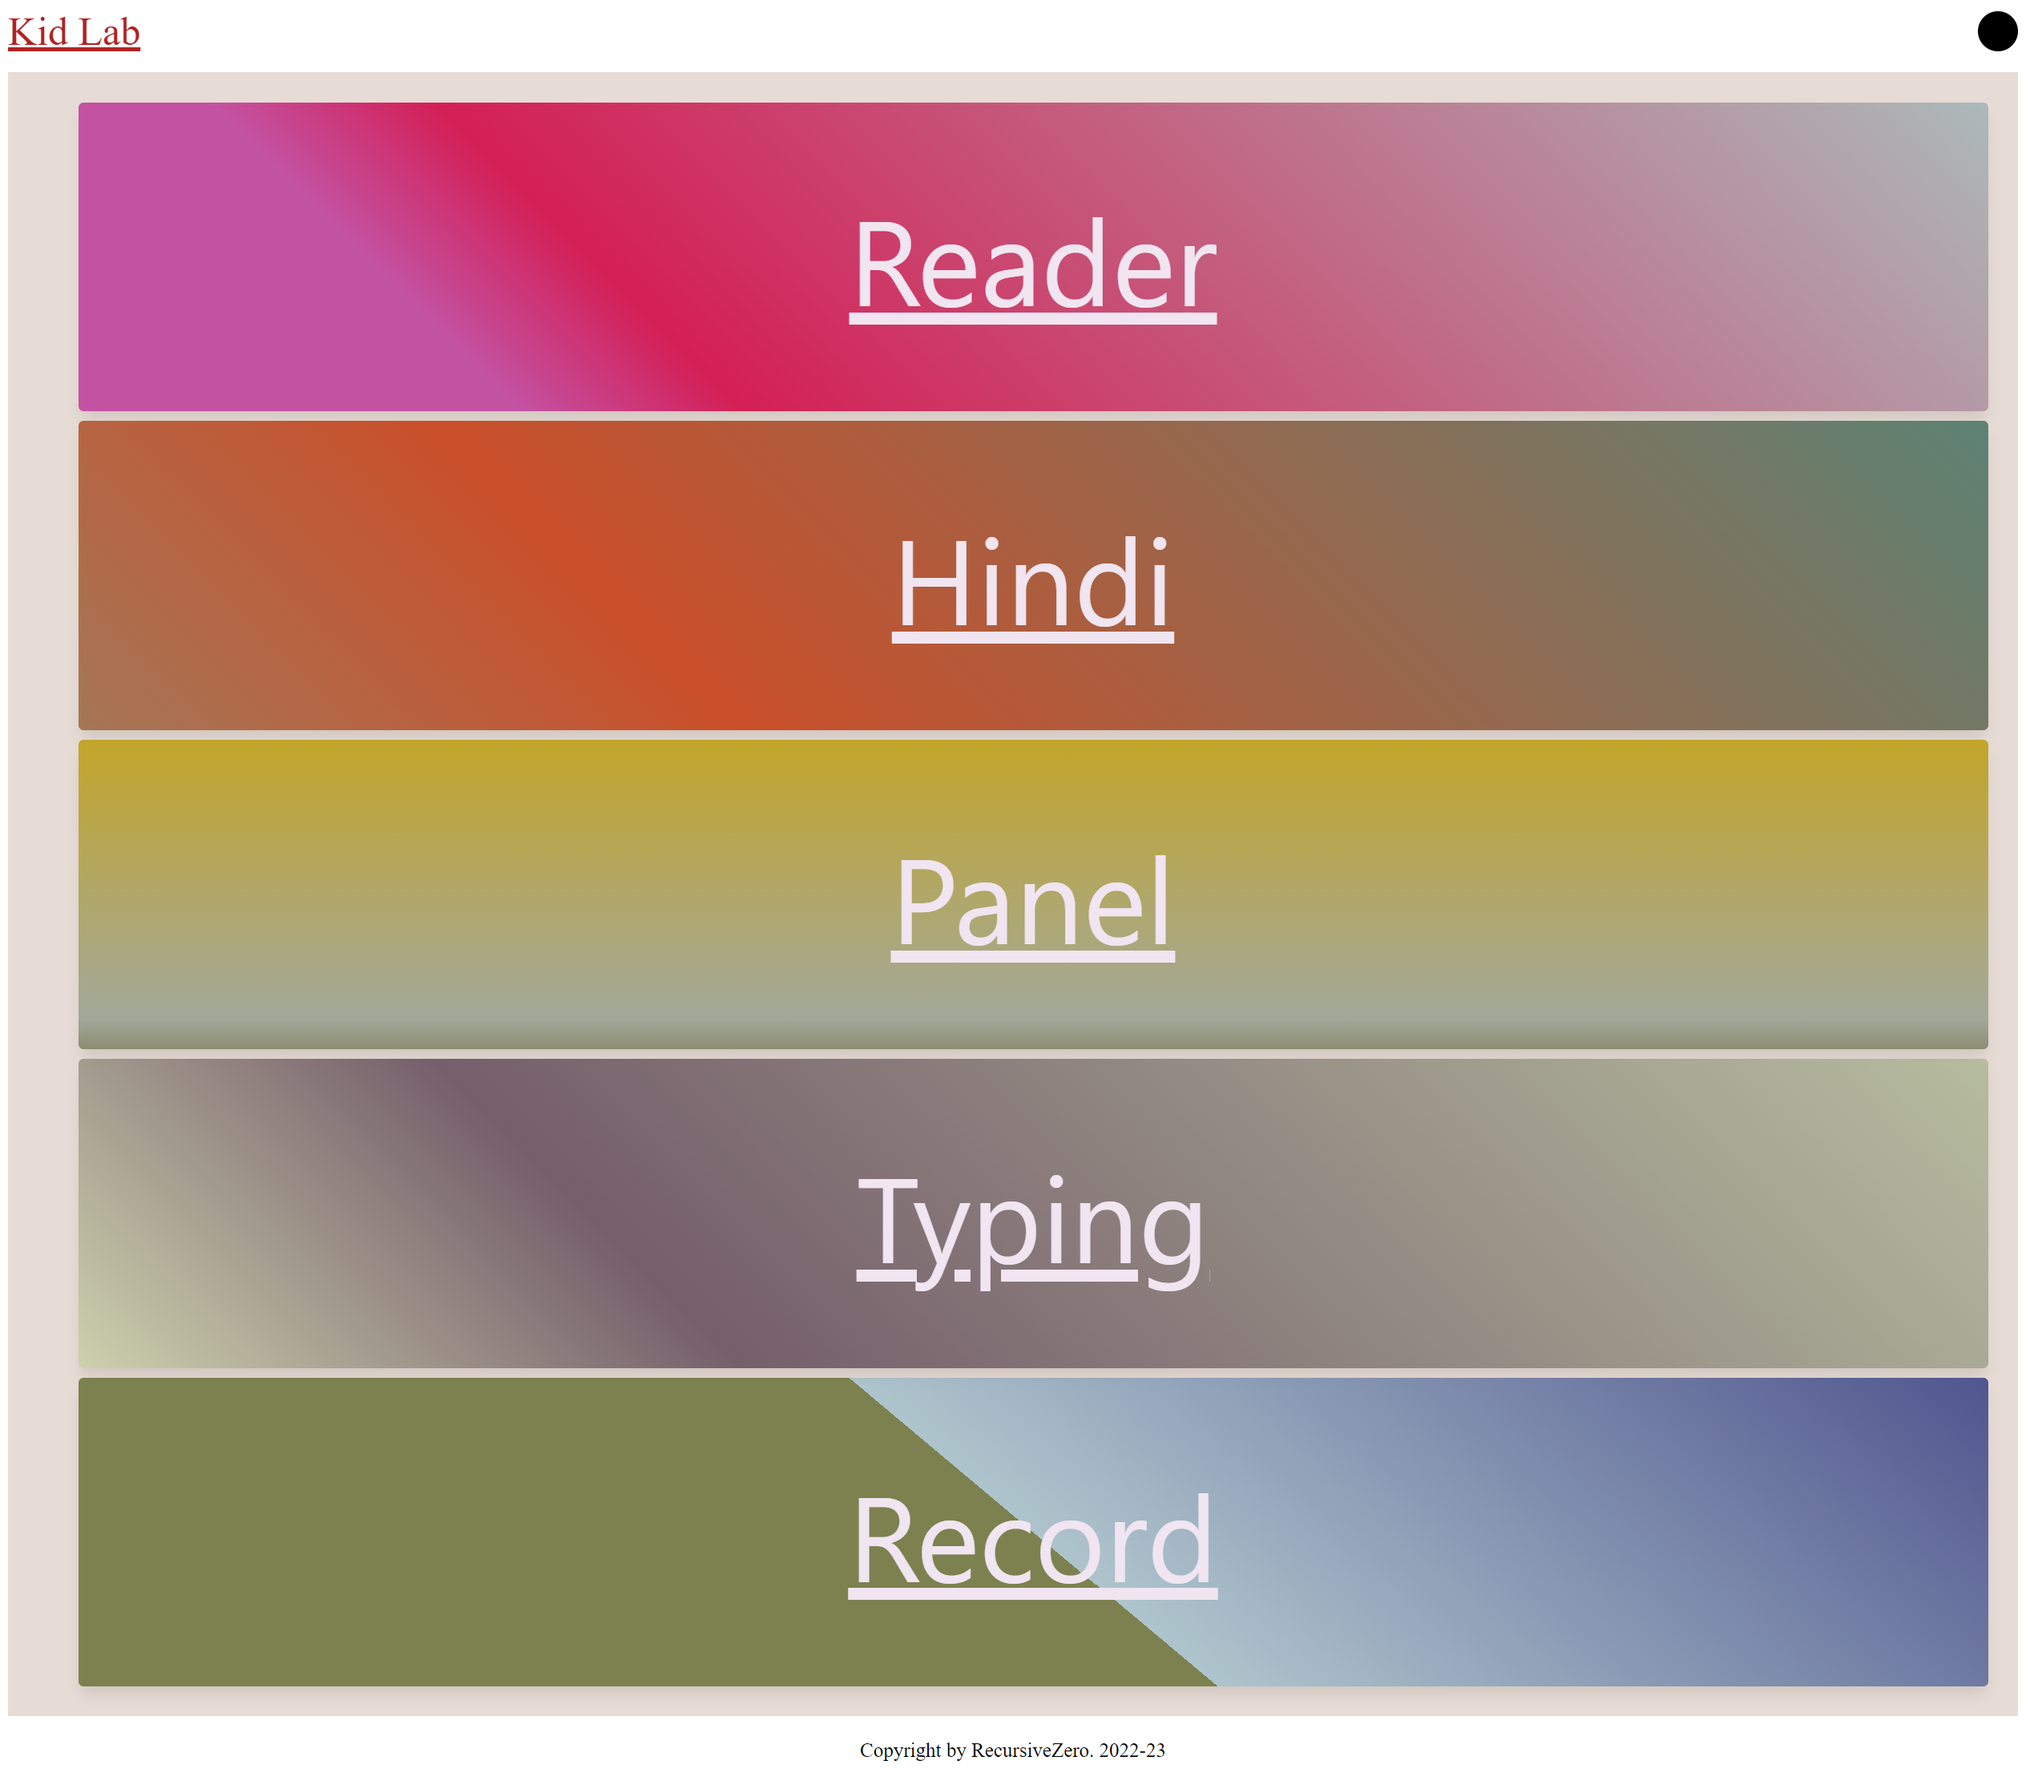
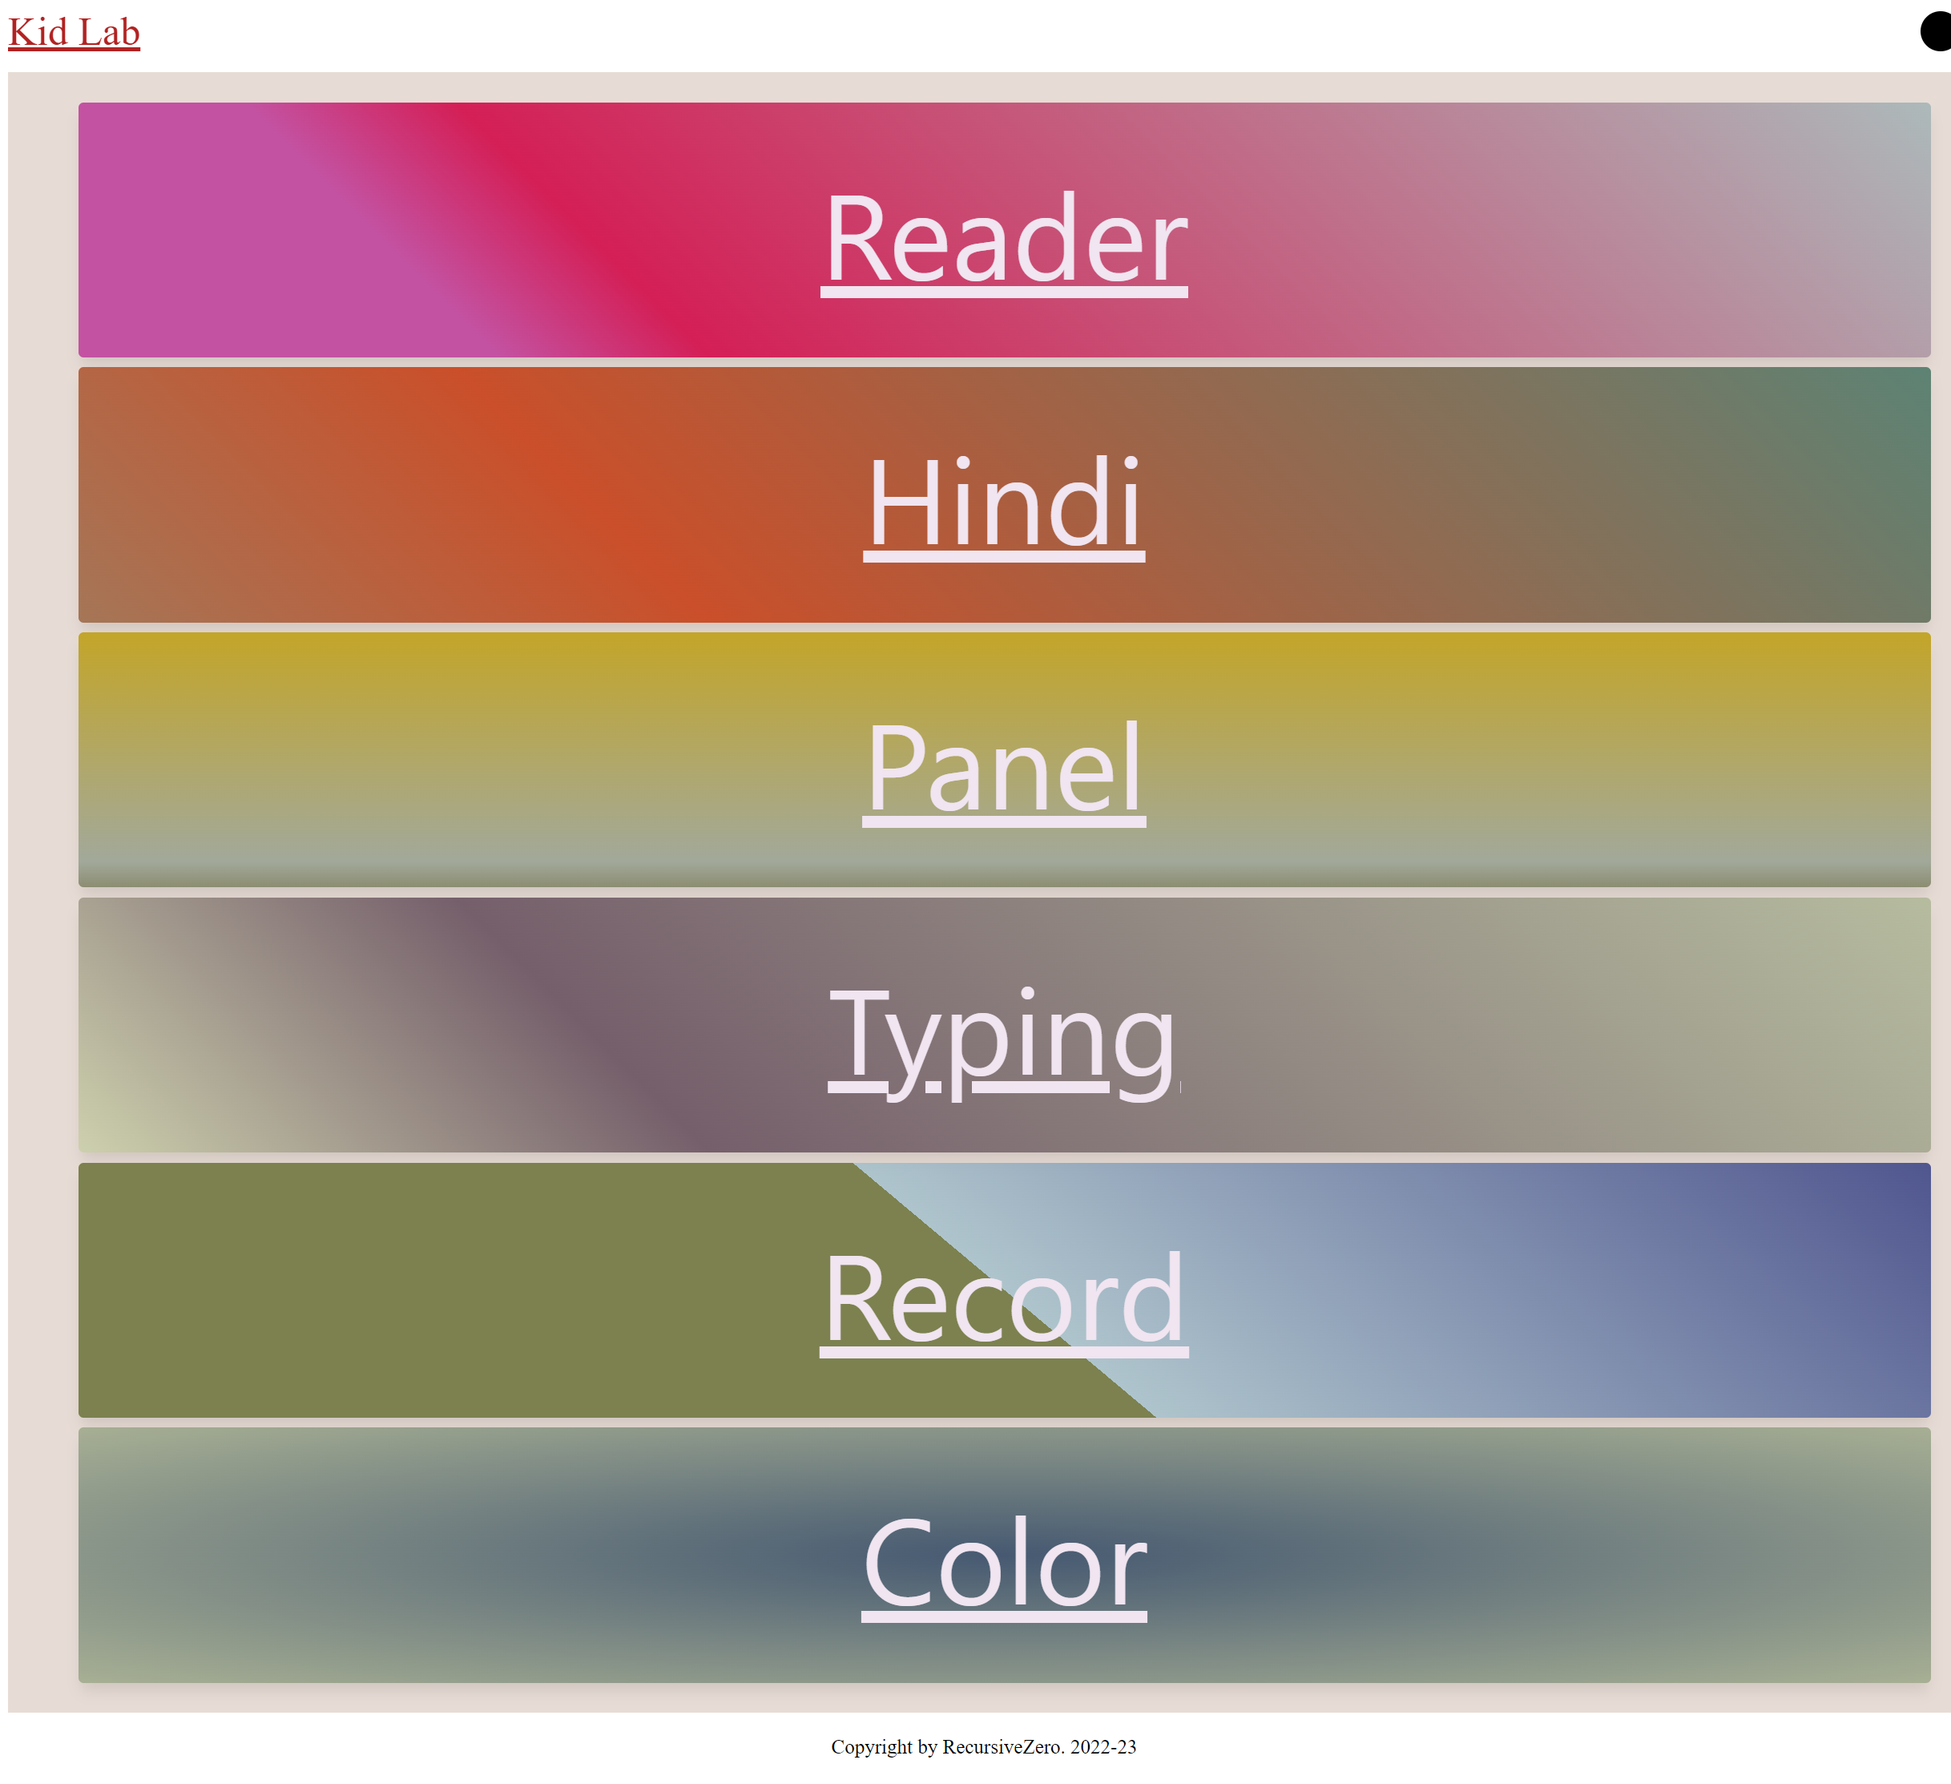
added color the background game

diff --git a/src/styles/color.css b/src/styles/color.css
@@ -1,0 +1,79 @@
+body {
+  margin: 0;
+  padding: 0;
+  box-sizing: content-box;
+}
+
+.container {
+  display: grid;
+  justify-content: center;
+  align-items: start;
+  height: 100vh;
+  background-color: #4f5b6f;
+}
+
+input[type='color' i] {
+  height: 4rem;
+  width: 4rem;
+  padding: 2px;
+  box-shadow: rgba(0, 0, 0, 0.25) 0px 54px 55px, rgba(0, 0, 0, 0.12) 0px -12px 30px, rgba(0, 0, 0, 0.12) 0px 4px 6px,
+    rgba(0, 0, 0, 0.17) 0px 12px 13px, rgba(0, 0, 0, 0.09) 0px -3px 5px;
+}
+
+/* modal css */
+
+.modal--block {
+  height: 2rem;
+  width: 10rem;
+  display: grid;
+  place-content: center;
+  border: 2px solid grey;
+  cursor: pointer;
+  backdrop-filter: brightness(0.5);
+}
+
+.dialog--opener {
+  font-family: Arial, Helvetica;
+  font-size: 1rem;
+  mix-blend-mode: difference;
+  color: white;
+}
+
+.modal--window {
+  height: 6rem;
+  width: 20rem;
+  overflow: auto;
+  transition: all 200ms;
+  box-shadow: 0px 12px 24px rgba(0, 0, 0, 0.2);
+  border-style: none;
+}
+
+.modal--window:target {
+  visibility: visible;
+  opacity: 1;
+  pointer-events: auto;
+}
+
+.modal--body {
+  display: grid;
+  grid-auto-flow: row;
+  gap: 4px;
+}
+
+.color--picker {
+  justify-self: center;
+}
+
+.btn--close {
+  background-color: #fff1f1d1;
+  justify-self: end;
+  height: auto;
+  border-style: none;
+  opacity: 1;
+  transition: opacity 500ms;
+  cursor: pointer;
+}
+
+.btn--close:hover {
+  opacity: 0.5;
+}

diff --git a/src/scripts/color.js b/src/scripts/color.js
@@ -1,0 +1,36 @@
+// @ts-nocheck
+let colorWell;
+const defaultColor = '#03ff';
+
+colorWell = document.querySelector('#colorWell');
+colorWell.value = defaultColor;
+colorWell.addEventListener('input', updateFirst, false);
+colorWell.addEventListener('change', updateFirst, false);
+colorWell.select();
+
+const main = document.querySelector('main');
+
+function updateFirst(event) {
+  main.style.backgroundColor = event.target.value;
+}
+
+const showButton = document.getElementById('showDialog');
+const favDialog = document.getElementById('favDialog');
+//const outputBox = document.querySelector('output');
+//const selectEl = favDialog.querySelector('select');
+//const confirmBtn = favDialog.querySelector('#confirmBtn');
+
+// "Update details" button opens the <dialog> modally
+showButton.addEventListener('click', () => {
+  favDialog.showModal();
+});
+//// "Favorite animal" input sets the value of the submit button
+//selectEl.addEventListener('change', (e) => {
+//  confirmBtn.value = selectEl.value;
+//});
+// "Confirm" button of form triggers "close" on dialog because of [method="dialog"]
+favDialog.addEventListener('close', () => {
+  console.log('close modal');
+  console.log(`ReturnValue: ${favDialog.returnValue}.`);
+  //outputBox.value = `ReturnValue: ${favDialog.returnValue}.`;
+});

diff --git a/src/html/color.html b/src/html/color.html
@@ -1,0 +1,34 @@
+<!DOCTYPE html>
+<html lang="en">
+
+<head>
+	<meta charset="UTF-8">
+	<meta http-equiv="X-UA-Compatible" content="IE=edge">
+	<meta name="viewport" content="width=device-width, initial-scale=1.0">
+	<title>Colorful Background</title>
+	<link rel="stylesheet" href="../styles/color.css">
+</head>
+
+<body>
+	<header class="header">
+		<a href="/"> Back</a>
+	</header>
+	<main class="container">
+		<div id="showDialog" class="modal--block">
+			<span class="dialog--opener">Color Picker</span>
+		</div>
+		<dialog id="favDialog" class="modal--window">
+			<form method="dialog">
+				<div class="modal--body">
+					<button value="cancel" class="btn--close">Close</button>
+					<div class="color--picker">
+						<input type="color" value="#ff0000" id="colorWell">
+					</div>
+				</div>
+			</form>
+		</dialog>
+	</main>
+	<script type="module" src="../scripts/color.js"></script>
+</body>
+
+</html>

diff --git a/src/html/index.html b/src/html/index.html
@@ -25,6 +25,7 @@
 				<li class="list--item "><a class="link--base" href="/panel">Panel</a></li>
 				<li class="list--item "><a class="link--base" href="/typing">Typing</a></li>
 				<li class="list--item "><a class="link--base" href="/record">Record</a></li>
+				<li class="list--item "><a class="link--base" href="/color">Color</a></li>
 			</ul>
 		</nav>
 	</main>

diff --git a/index.js b/index.js
@@ -52,6 +52,10 @@ router.get('/record', (_, res) => {
   res.sendFile(`${HTML_DIR}/record.html`);
 });
 
+router.get('/color', (_, res) => {
+  res.sendFile(`${HTML_DIR}/color.html`);
+});
+
 // error handling middleware
 
 app.use((err, req, res, next) => {

diff --git a/README.md b/README.md
@@ -29,3 +29,7 @@ and open `http://localhost:3000` in the browser
 ### Typing
 
 ![Typing](src/media/images/typing.png)
+
+### Color The Background
+
+![color the background screenshot](src/media/images/color-picker.png)
